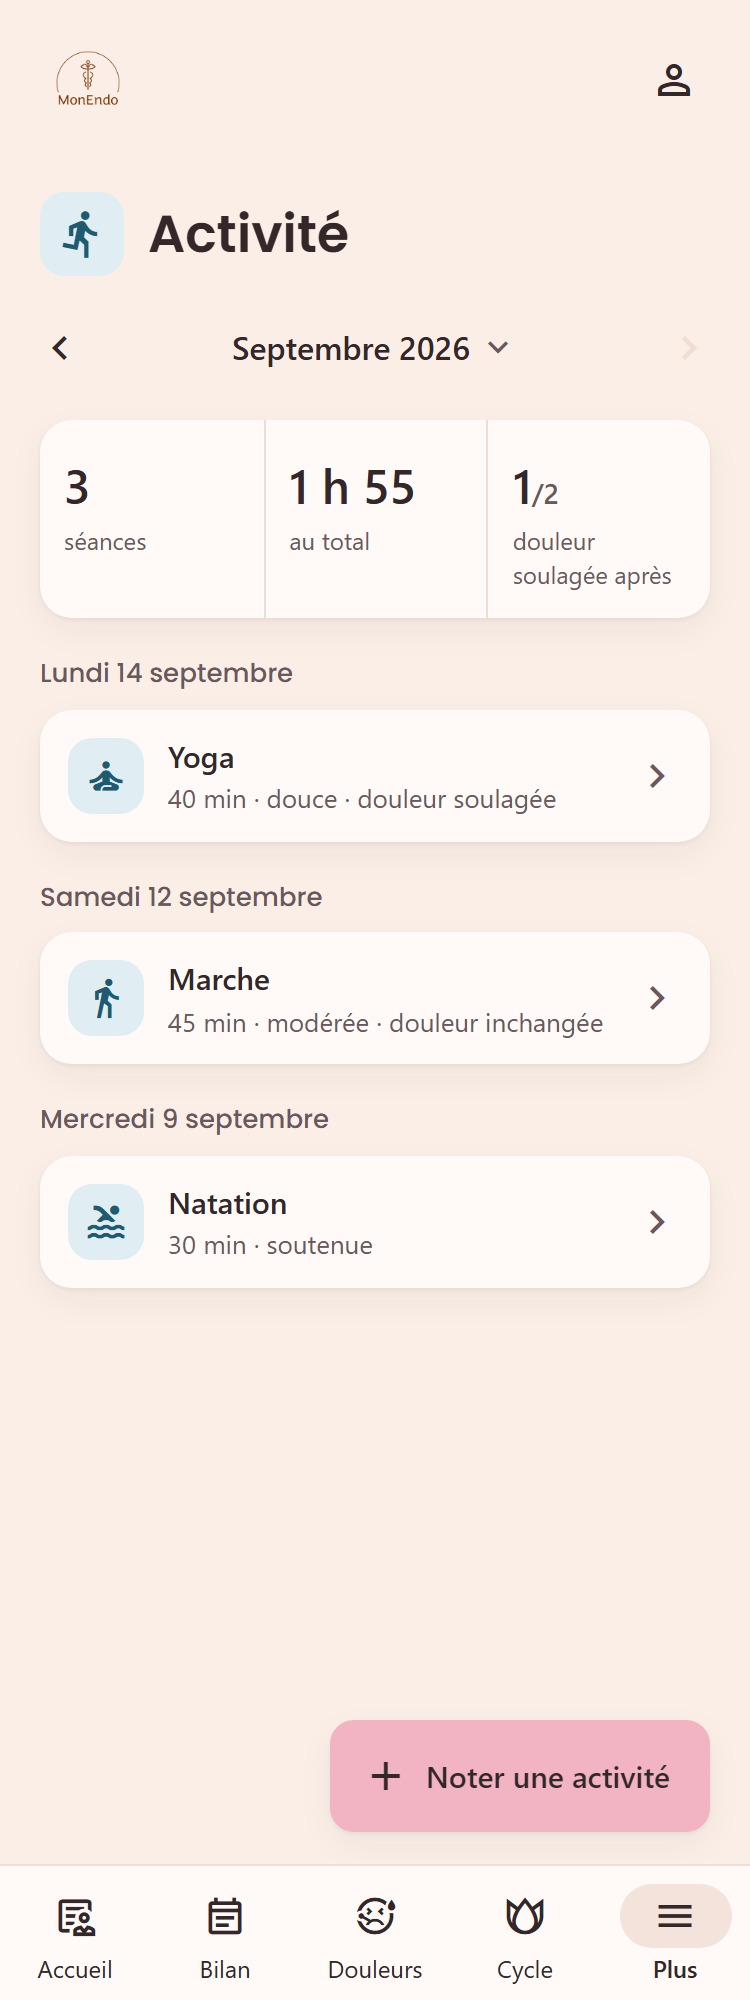
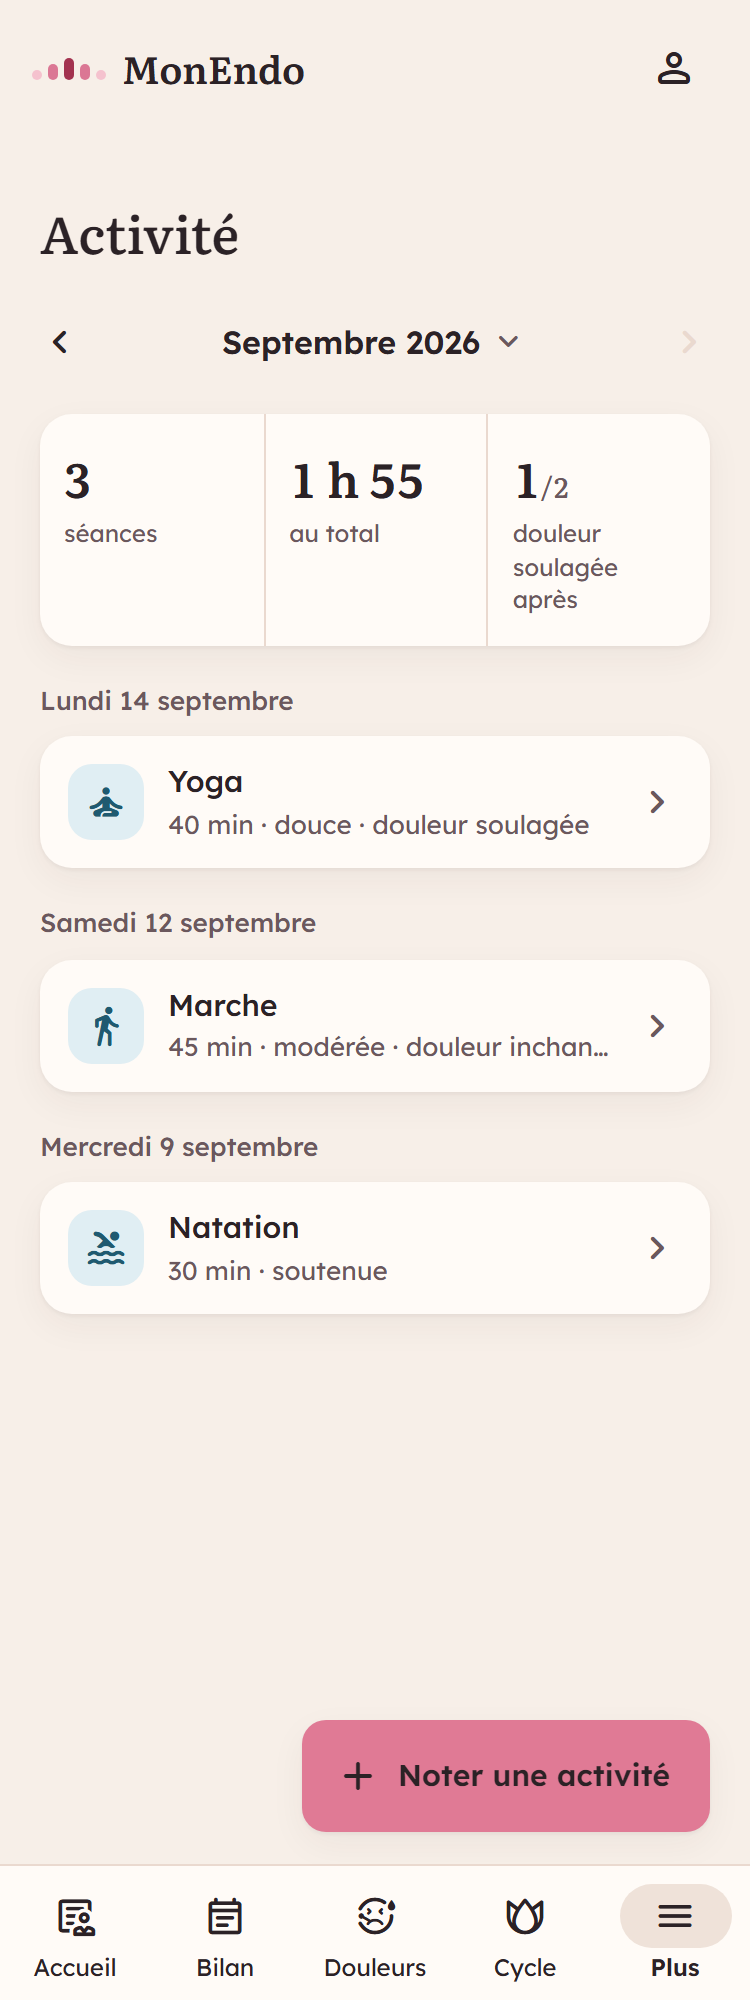
docs(front): décrit l'identité « Carnet de bord » et la frise, captures du README à jour

diff --git a/monendovue.client/tests/captures/readme.capture.ts b/monendovue.client/tests/captures/readme.capture.ts
@@ -93,6 +93,8 @@ test.describe('Captures du README', () => {
       ],
       auBesoin: [{ id: 3, nom: 'Ibuprofène', dose: '400 mg', dernierePrise: null }],
       semaine: { joursAvecDouleur: 5, joursAvecDouleurPendantRegles: 2, fatigueMoyenne: 2.5, fatigueMoyennePrecedente: 3.5 },
+      // Frise cohérente avec la semaine : 5 jours de douleur, dont les 2 jours de règles.
+      frise: [2, null, 3, 6, null, 5, 4].map((douleur, i) => ({ jour: `2026-09-${String(9 + i).padStart(2, '0')}`, douleur, regles: i >= 5 })),
     });
   });
 

diff --git a/monendovue.client/CLAUDE.md b/monendovue.client/CLAUDE.md
@@ -99,15 +99,27 @@ lecture seule (liste par jour, `SelecteurMois`, suppression en deux temps), plus
 ## Style et UX
 - **Mobile d'abord** : styles de base = mobile, `md:` = desktop ; ajustements ≤ 425px via `@media (max-width: 425px)`
   dans le `<style scoped>` ou la classe `.hide-xsm`. Tester à 375px.
-- **Tokens de design** (`src/assets/tokens.css`, palette validée en 1.3.0, contrastes WCAG AA vérifiés) exposés à Tailwind :
+- **Identité « Carnet de bord »** (1.5.0, revue de design du 2026-10-18, maquettes : canevas « MonEndo — Carnet de bord ») : l'app
+  est un carnet qu'on apporte chez le médecin. Papier chaud (`fond` #f7efe8), encre (`texte` #2b2226), **une seule police
+  d'interface partout** (Lexend, posée sur `body` : boutons et champs compris), **Literata** pour les titres de page (`h1`, graisse
+  moyenne `font-medium`) et les chiffres saisis ou comptés (classe `chiffre` : « 4/10 », « 31 j »). Pas de tuile d'icône devant
+  un titre de page ; les blocs en lecture seule sont des **sections à filets** (`border-y border-trait`, titre `text-legende
+  uppercase tracking-wider text-texte-2`) plutôt que des cartes ou des cases dans des cartes : la carte reste pour ce qu'on touche.
+  Logo : `MotSymbole` (petite frise + « MonEndo » en Literata), plus de caducée. Signature : la **frise** (`shared/components/Frise.vue`,
+  un trait par jour teinté par `--intensite-N`, trait `trait` si rien n'est noté, ruban `teinte-regles` sous les jours de règles ;
+  données `GET Frise` ou `frise` de l'accueil). Pas d'emoji : une émotion porte une pastille de tonalité (`pastilleTonalite`).
+  Atkinson Hyperlegible, proposée par la revue, a été écartée : son zéro est toujours barré (« 2Ø26 »).
+- **Tokens de design** (`src/assets/tokens.css`, palette de la 1.3.0 revue en 1.5.0, contrastes WCAG AA vérifiés) exposés à Tailwind :
   `bg-fond`, `bg-surface`, `bg-surface-2`, `border-trait`, `text-texte` / `-2` / `-3`, `text-lien`, `border-contour` (champs,
   3:1), `text-danger`, `text-etat-fait`, `rounded-controle` / `carte` / `panneau`, `shadow-elevation` (la seule ombre). **Aucune couleur en dur ni
   couleur Tailwind brute** (`blue-100`, `gray-300`…) dans le code nouveau ou modifié. Les anciens noms (`--headline`,
   `--button`, `.text-headline`, `Button variant="custom"`) et les variables shadcn pointent vers ces tokens.
   - Une **rubrique = une teinte**, partout (tuile + icône) : `bg-teinte-<r>-fond` + `text-teinte-<r>` avec <r> = `bilan`,
     `douleur`, `regles`, `symptome`, `traitement`, `neutre`. Les types d'une rubrique se distinguent par icône et libellé.
-  - Le rose poudré `--couleur-accent` (`bg-button`, `#f2b3c2`) est un **fond** avec texte foncé (8.2:1) ; jamais de texte blanc
-    dessus ni de texte rose. L'ancien `#ff8ba7`, trop saturé, tranchait avec le reste.
+  - Le rose soutenu `--couleur-accent` (`bg-button`, `#e07a95`, choisi en 1.5.0) est un **fond** avec texte encre (5.4:1) ;
+    jamais de texte blanc dessus ni de texte rose. L'ancien rose poudré `#f2b3c2` faisait paraître les boutons désactivés ;
+    un prune `#6e2c47` a été essayé puis refusé (« moins chaleureux »). Le rose poudré sert désormais au choix sélectionné.
+  - Liens : prune `--couleur-lien` (#6e2c47). Le rouge `teinte-regles` (#a3324f) est réservé aux règles.
   - **Formes et états** (décision du 2026-09-28, l'utilisateur trouvait les arrondis et les états incohérents) :
     - un rayon par rôle, jamais de valeur en crochets : `rounded-controle` (12 px : boutons, bouton flottant, champs,
       choix, onglets, tuiles d'icône), `rounded-carte` (16 px : cartes, listes), `rounded-t-panneau` (24 px : panneau du bas).
@@ -117,7 +129,8 @@ lecture seule (liste par jour, `SelecteurMois`, suppression en deux temps), plus
       pleine (`icone-pleine`), sans fond, sans bordure (`EtatPrise` comme modèle). Le ✓ `check_circle` est réservé à « fait »,
       en `text-etat-fait` ; « ignorée » en `text-texte-3` ;
     - une action se nomme par un verbe, sans icône de validation : « Je l'ai pris », pas « ✓ Pris » ;
-    - un choix sélectionné dans un formulaire (type, moment, fréquence) = fond `bg-texte` et texte `text-fond`, partout ;
+    - un choix sélectionné dans un formulaire (type, moment, fréquence, émotion, note) = classe `choix-actif` (fond rosé
+      `--couleur-selection`, contour prune, texte encre ; `Button variant="selected"` l'applique), partout ; plus de fond foncé ;
       non sélectionné = `border-contour bg-surface` (jamais `border-trait`, invisible à 1,3:1 : `trait` sépare, il ne
       délimite pas un contrôle) ; un champ de saisie = `border-contour bg-champ` ;
     - une bascule de vue (onglets, semaine / mois, écart de comparaison) = segment `bg-surface-2 p-1`, élément choisi
@@ -144,8 +157,8 @@ lecture seule (liste par jour, `SelecteurMois`, suppression en deux temps), plus
     **sous-page** qui n'a pas d'entrée dans la navigation (`/medicaments/:id`) garde un lien de retour vers sa page mère.
   - **Une mesure garde une couleur de donnée sur tous les écrans** : la douleur est sur l'échelle rose `--intensite-N`
     (calendrier, graphiques, pastilles) ; la teinte orange `teinte-douleur` ne sert qu'à l'identité de la rubrique (tuile
-    d'icône). Les émotions sont en violet (`--emotion-N`, `teinte-symptome`). Dans « Tendances », les tuiles de moyennes sont
-    neutres (`bg-surface-2`) et seule l'icône porte la teinte de l'indicateur.
+    d'icône). Les émotions sont en violet (`--emotion-N`, `teinte-symptome`). Dans « Tendances », les moyennes sont des lignes
+    de carnet (libellé, chiffre en Literata, évolution) et seule l'icône porte la teinte de l'indicateur.
   - Le focus clavier est visible partout par une règle globale `:focus-visible` (`index.css`) : ne pas mettre
     `focus:outline-none` sur un élément focalisable sans donner un autre indicateur. L'en-tête (logo, compte) est
     posé sur la page en `pointer-events-none` : la première carte peut passer dessous sans perdre ses clics.
@@ -158,9 +171,10 @@ lecture seule (liste par jour, `SelecteurMois`, suppression en deux temps), plus
   - `Card` (shadcn) n'a ni survol ni curseur : une carte n'est pas cliquable. `CardHeader` est un `div`, le titre est
     porté par `CardTitle` seul.
   - Les pages pas encore refaites (Cycle, Activité, Export…) gardent des couleurs brutes : les migrer quand on les touche.
-- Polices servies par l'app (`src/assets/polices.css`, paquets `@fontsource`), **jamais Google Fonts** (IP envoyée à Google, RGPD) :
-  Poppins 400/400 italique/500/600/700 en latin ; une graisse ou un axe d'icône en plus s'ajoute dans ce fichier.
-- Icônes Material Symbols (`<i class="material-symbols-outlined">nom</i>`, axe FILL seul, graisse 400) ; les correspondances type → icône vont dans
+- Polices servies par l'app (`src/assets/polices.css`, paquets `@fontsource-variable`), **jamais Google Fonts** (IP envoyée à Google, RGPD) :
+  Lexend et Literata variables, sous-ensemble latin ; un axe d'icône en plus s'ajoute dans ce fichier.
+- Icônes Material Symbols **arrondies** (`<i class="material-symbols-outlined">nom</i>` : la classe garde son nom historique, la
+  police est `Material Symbols Rounded`, axe FILL seul, graisse 400) ; les correspondances type → icône vont dans
   `shared/config/materialSymbols.ts`.
 - Textes 100 % en français, dates via `useDateTimeFormat` (`fr-FR`).
 - **Jour calendaire envoyé à l'API** : jamais un `Date` à minuit (sérialisé en UTC, il glisse au jour précédent et le

diff --git a/CLAUDE.md b/CLAUDE.md
@@ -104,11 +104,14 @@ dotnet ef migrations add NomEnPascalCase --project MonEndoVue.Server
   par `features/bilan-quotidien/utils/humeur.ts`, qui prend en compte les deux.
 - Accueil `/` « Aujourd'hui » (`GET Accueil/aujourdhui?jour=AAAA-MM-JJ`, jour local envoyé par le client, carnet de la
   session : cycle déduit des jours de règles sans prédiction, bilan du jour, épisode d'acné en cours (durée, jour de la dernière photo), prises prévues ce jour-là (heure et réponse) et
-  traitements au besoin, faits descriptifs des 7 derniers jours ; prise notée en un geste par `POST Traitements/{id}/prises`), agenda `/agenda` (Google Calendar en lecture via le serveur : l'utilisatrice lie son compte Google depuis `/parametres` (OAuth, `Agenda/liaison`, portées `calendar.events.readonly` et `calendar.calendarlist.readonly`), puis choisit **le calendrier lu**, le seul (idéalement un calendrier de rendez-vous médicaux) ; sans liaison, repli temporaire sur l'entrée de configuration `Agenda` ; sans calendrier choisi, rien n'est lu). Page `/agenda` (`features/schedule/`) : **liste par jour** des rendez-vous à venir (vue par défaut), vue **Passés** (par mois, du plus récent, fenêtres de 60 jours lues à la demande, six au plus) et vue Mois, détail dans un panneau ; « Refaire le résumé de cette période » (rendez-vous passé à heure fixe) ouvre `/export` comme « Préparer », avec en plus `jusquau` (jour du rendez-vous) : la période finit ce jour-là au lieu d'aujourd'hui ; « Préparer ce rendez-vous » ouvre `/export` avec, dans l'**état de la navigation** (`history.state`, jamais dans l'adresse), la date du rendez-vous et celle du précédent (`GET Agenda/precedent?avant=`) : période « depuis le dernier RDV » jusqu'à aujourd'hui (l'export ne dépasse pas aujourd'hui), « Préparer un rendez-vous » `/export` : PDF créé dans le navigateur (jsPDF, chargé à la demande) depuis
+  traitements au besoin, faits descriptifs des 7 derniers jours et **frise** de ces 7 jours ; prise notée en un geste par `POST Traitements/{id}/prises`), agenda `/agenda` (Google Calendar en lecture via le serveur : l'utilisatrice lie son compte Google depuis `/parametres` (OAuth, `Agenda/liaison`, portées `calendar.events.readonly` et `calendar.calendarlist.readonly`), puis choisit **le calendrier lu**, le seul (idéalement un calendrier de rendez-vous médicaux) ; sans liaison, repli temporaire sur l'entrée de configuration `Agenda` ; sans calendrier choisi, rien n'est lu). Page `/agenda` (`features/schedule/`) : **liste par jour** des rendez-vous à venir (vue par défaut), vue **Passés** (par mois, du plus récent, fenêtres de 60 jours lues à la demande, six au plus) et vue Mois, détail dans un panneau ; « Refaire le résumé de cette période » (rendez-vous passé à heure fixe) ouvre `/export` comme « Préparer », avec en plus `jusquau` (jour du rendez-vous) : la période finit ce jour-là au lieu d'aujourd'hui ; « Préparer ce rendez-vous » ouvre `/export` avec, dans l'**état de la navigation** (`history.state`, jamais dans l'adresse), la date du rendez-vous et celle du précédent (`GET Agenda/precedent?avant=`) : période « depuis le dernier RDV » jusqu'à aujourd'hui (l'export ne dépasse pas aujourd'hui), « Préparer un rendez-vous » `/export` : PDF créé dans le navigateur (jsPDF, chargé à la demande) depuis
   `GET Synthese?du=&au=` (`SyntheseRendezVousService`, carnet de la session, un an au plus : comptes et moyennes par
   rubrique, prises des traitements, règles, détail jour par jour, **sans interprétation**). Période 1 mois / 3 mois /
   libre, rubriques au choix, « Mes questions » (texte libre gardé sur l'appareil, jamais envoyé, en première page).
   `CarnetSanteController` et ses vues (carnet par id, dernières entrées, export du mois) ont été retirés : plus aucun appel client.
+- **Frise** (`FriseService`, `GET Frise?au=&jours=`, 62 jours au plus, carnet de la session) : pour chaque jour, la douleur la plus forte notée
+  (douleur moyenne du bilan ou entrée de douleur, null si rien) et les règles. Accueil (7 jours, dans `Accueil/aujourdhui`) et onglet Règles de
+  `/cycle` (30 jours). Purement descriptive, sans moyenne ni prédiction. Composant `shared/components/Frise.vue`.
 - Page « Une suggestion ? Un bug ? » `/suggestions` (`features/retours/`, entrée « Suggestion ou bug » du menu « Plus ») : de
   simples liens `mailto:` vers l'adresse de l'éditeur (`features/legal/config/editeur.ts`), objet et corps préremplis
   avec la page d'origine, la version et l'appareil ; aucun formulaire, rien stocké côté serveur. Les e-mails reçus sont

diff --git a/CHANGELOG.md b/CHANGELOG.md
@@ -30,6 +30,13 @@ versions en [SemVer](https://semver.org/lang/fr/) (voir la section Déploiement 
 - Accueil : pendant un épisode d'acné, une carte rappelle depuis quand il dure et la date de ta dernière photo, avec « Ajouter une photo ».
 
 ### Modifié
+- **Nouvelle identité visuelle, « carnet de bord »** : une seule police pour toute l'app (Lexend, plus lisible), Literata pour les titres et
+  les chiffres, un papier plus chaud, un bouton principal rose plus franc (les boutons ne paraissent plus désactivés), les choix sélectionnés en
+  rose clair, des icônes plus douces, et un nouveau logo à la place du caducée. Moins de cases dans les cartes : les moyennes et le bilan du
+  jour se lisent comme des lignes de carnet. Les émotions n'ont plus d'emoji, seulement une pastille.
+- **La frise** : sur l'accueil, un trait par jour de la semaine, plus foncé quand la douleur était plus forte, avec un ruban sous les jours de
+  règles ; la page Cycle montre la même frise sur 30 jours. Elle décrit, elle n'interprète pas.
+- Connexion : « Bon retour », au lieu de « Content de te revoir ».
 - **L'acné a sa propre page**, accessible depuis le menu « Plus » (et un raccourci sous l'onglet Symptômes du cycle). La page Cycle garde
   les onglets Règles et Symptômes. Les anciens liens et la notification de la photo de suivi mènent à la nouvelle page.
 - Le menu « Plus » (et la barre latérale sur ordinateur) est rangé en trois groupes : **Mes suivis**, **Mes rendez-vous** et **Aide**.
